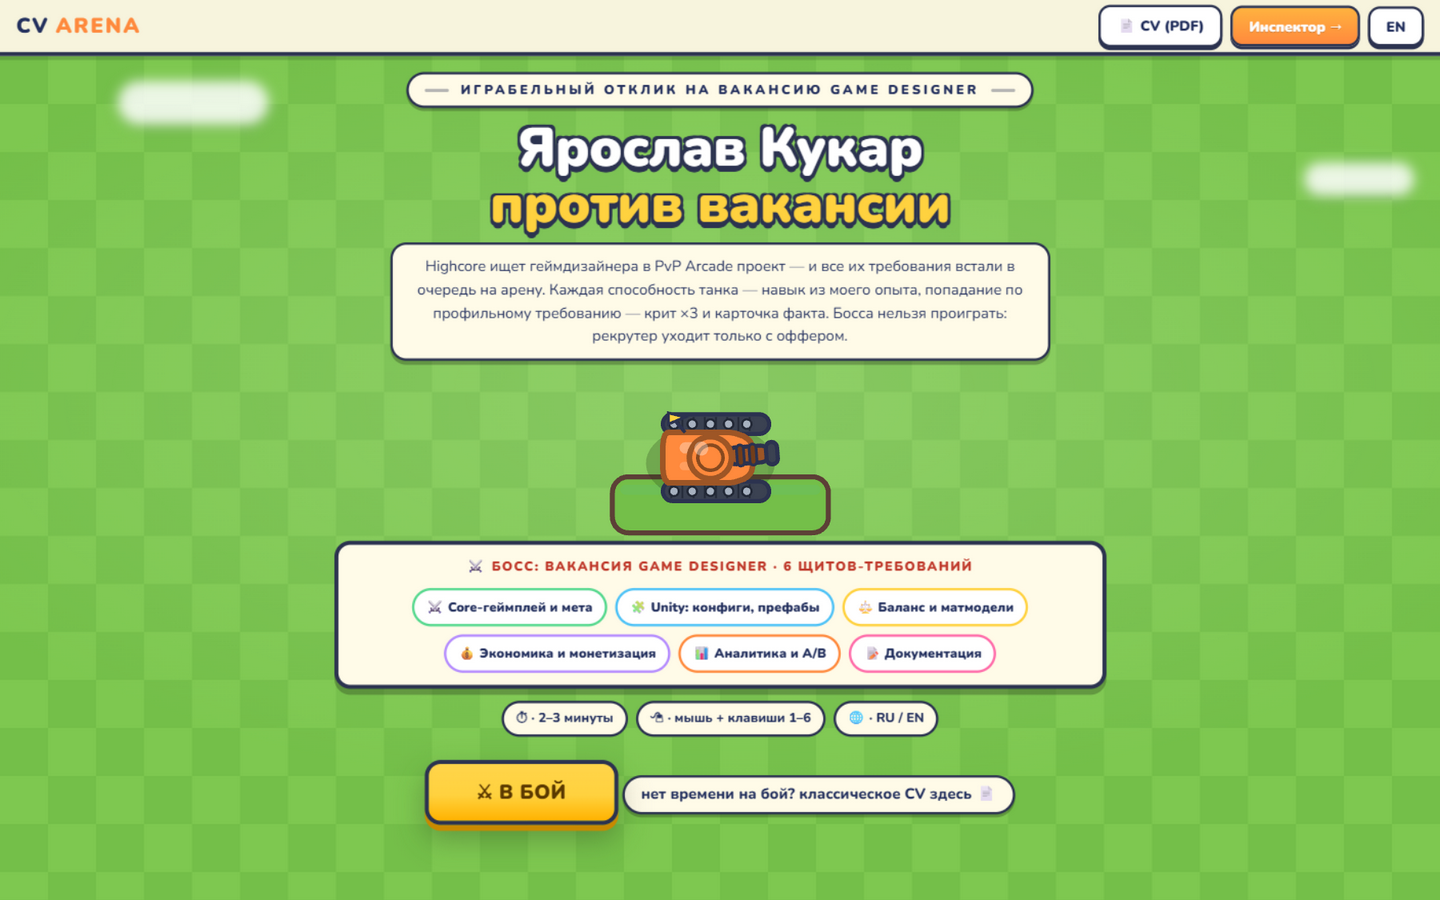
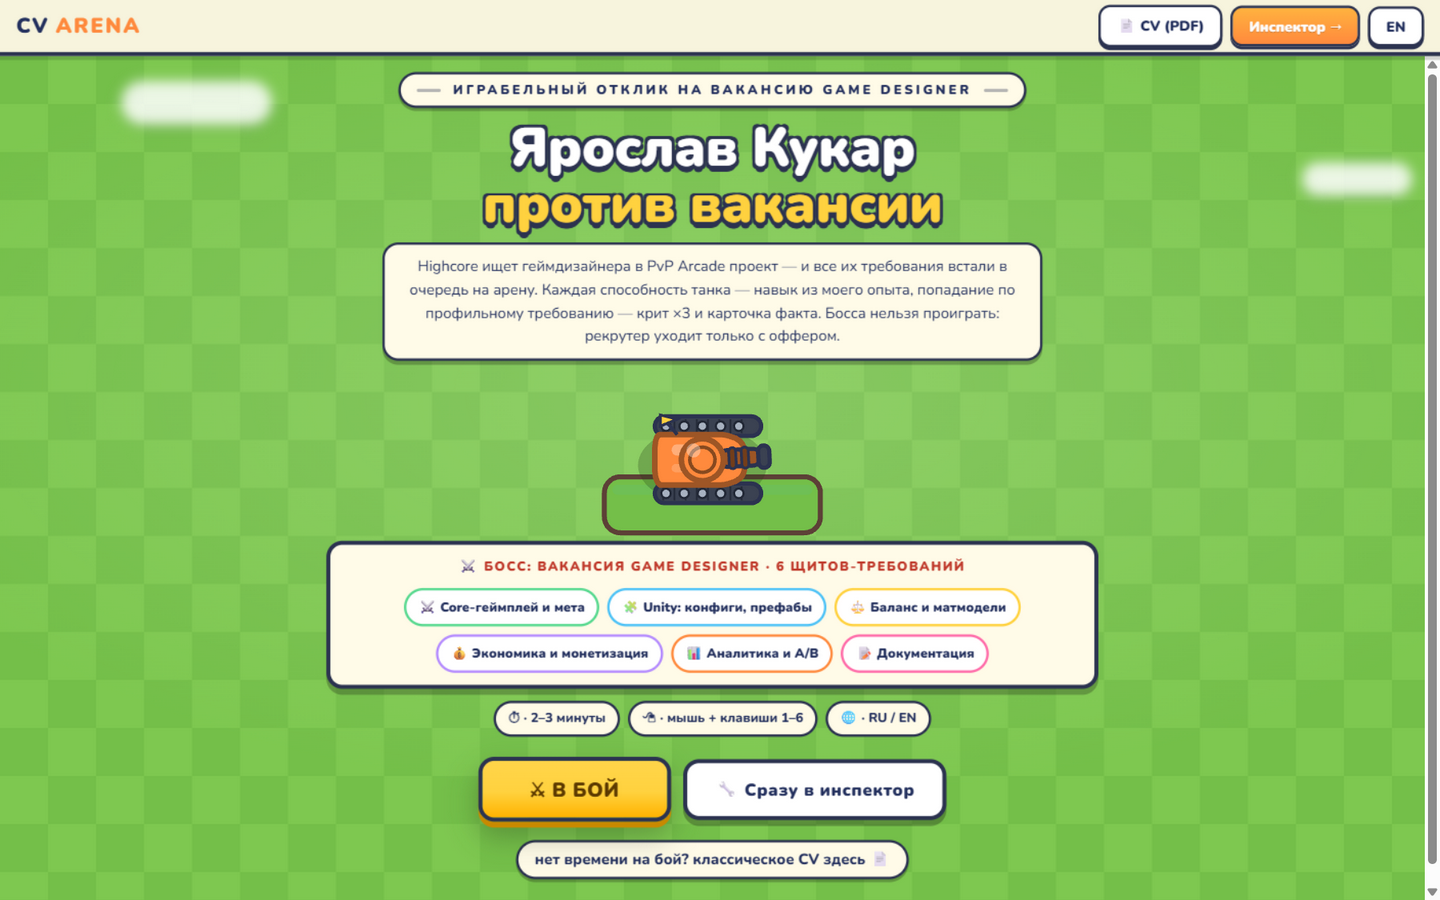
добавил на меню кнопку сразу в инспектор рядом с боем

diff --git a/js/loc.js b/js/loc.js
@@ -11,6 +11,7 @@ export const LOC = {
     intro_sub: 'Highcore ищет геймдизайнера в PvP Arcade проект — и все их требования встали в очередь на арену. Каждая способность танка — навык из моего опыта, попадание по профильному требованию — крит ×3 и карточка факта. Босса нельзя проиграть: рекрутер уходит только с оффером.',
     intro_boss_head: '⚔ Босс: Вакансия Game Designer · 6 щитов-требований',
     intro_fight: '⚔ В БОЙ',
+    intro_inspector: '🔧 Сразу в инспектор',
     intro_cv_link: 'нет времени на бой? классическое CV здесь',
     intro_badge1: '⏱ · 2–3 минуты',
     intro_badge2: '🖱 · мышь + клавиши 1–6',
@@ -195,6 +196,7 @@ export const LOC = {
       intro_sub: 'Highcore is hiring a game designer for a PvP Arcade project — and every requirement is now a boss shield on this arena. Each tank ability is a skill from my experience; hitting the matching requirement deals a ×3 crit and reveals a fact card. You cannot lose this fight: the recruiter only leaves with an offer.',
       intro_boss_head: '⚔ Boss: Game Designer vacancy · 6 requirement shields',
       intro_fight: '⚔ FIGHT',
+      intro_inspector: '🔧 Straight to inspector',
       intro_cv_link: 'no time for a fight? classic CV here',
       intro_badge1: '⏱ · 2–3 minutes',
       intro_badge2: '🖱 · mouse + keys 1–6',

diff --git a/js/main.js b/js/main.js
@@ -20,6 +20,7 @@ const screens = {
 
 const btn = {
   fight: document.getElementById('btn-fight'),
+  inspectorStart: document.getElementById('btn-inspector-start'),
   skip: document.getElementById('btn-skip'),
   back: document.getElementById('btn-back'),
   lang: document.getElementById('btn-lang'),
@@ -127,6 +128,7 @@ function showBattleAfterVictory() {
 }
 
 btn.fight.addEventListener('click', startFight);
+btn.inspectorStart.addEventListener('click', showInspector);
 btn.skip.addEventListener('click', showInspector);
 btn.toBattle.addEventListener('click', () => {
   if (battle) showBattleAfterVictory();

diff --git a/style.css b/style.css
@@ -326,6 +326,14 @@ button { font-family: inherit; cursor: pointer; }
   border: 2.5px solid var(--ink);
 }
 
+.intro-btns {
+  display: flex;
+  gap: 12px;
+  justify-content: center;
+  align-items: center;
+  flex-wrap: wrap;
+}
+
 .big-btn {
   position: relative;
   border: 4px solid var(--ink);
@@ -356,6 +364,8 @@ button { font-family: inherit; cursor: pointer; }
 .big-btn.ghost {
   background: #ffffff;
   color: var(--ink-soft);
+  font-size: 17px;
+  padding: 14px 28px;
   box-shadow: 0 6px 0 rgba(30, 40, 20, 0.35);
 }
 .big-btn.ghost:hover { filter: none; box-shadow: 0 8px 0 rgba(30, 40, 20, 0.35); }

diff --git a/index.html b/index.html
@@ -32,7 +32,10 @@
         <div id="intro-chips" class="intro-chips"></div>
       </div>
       <div id="intro-badges" class="intro-badges"></div>
-      <button id="btn-fight" class="big-btn" data-loc="intro_fight"></button>
+      <div class="intro-btns">
+        <button id="btn-fight" class="big-btn" data-loc="intro_fight"></button>
+        <button id="btn-inspector-start" class="big-btn ghost" data-loc="intro_inspector"></button>
+      </div>
       <a class="intro-cv" href="docs/CV_Yaroslav.pdf" target="_blank" rel="noopener">
         <span data-loc="intro_cv_link"></span> 📄
       </a>
